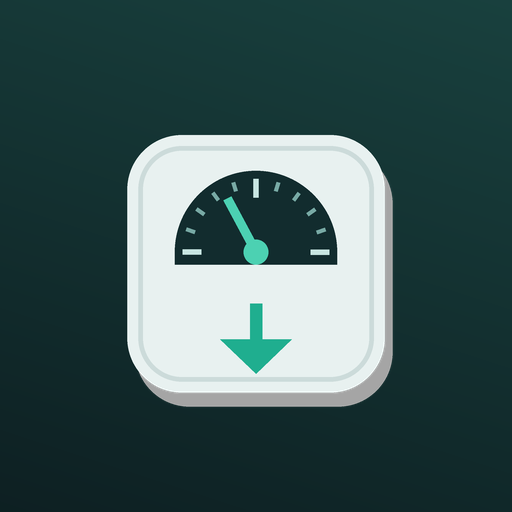
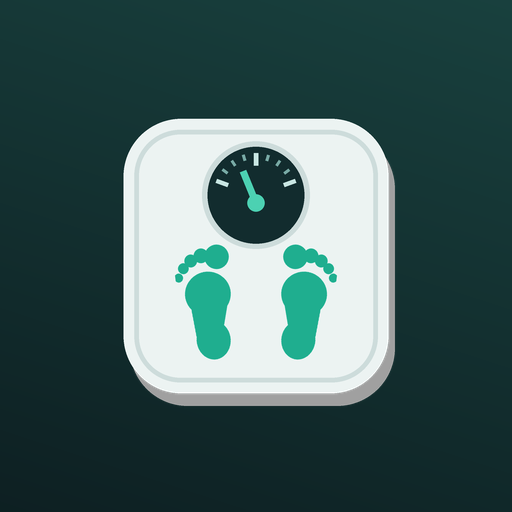
0.1.2: масштаб графіка — колесо миші, перетягування й Shift+колесо для зсуву, подвійний клік скидає; на телефоні — два пальці (розвести — масштаб, вести разом — зсув); нова іконка — підлогові ваги зі слідами ступнів

Changed region(s): [[0.2188, 0.2188, 0.7812, 0.7812], [0.3438, 0.75, 0.6562, 0.7812]]

diff --git a/js/chart.js b/js/chart.js
@@ -20,12 +20,18 @@ function niceStep(span) {
   return STEPS.find((st) => span / st <= 6) ?? 10;
 }
 
+/** Найвужче вікно масштабу, днів. */
+const MIN_SPAN = 6;
+let clipSeq = 0;
+
 /**
  * spec: {
  *   series: [{ key, label, kind: 'line' | 'dots', cls, points: [{ date, v, ring }], endLabel }],
  *   extra: [числа, що мають влізти в шкалу], hlines: [{ v, label, cls }],
  *   legend: [{ label, cls, kind }], height, digits, unit,
  *   selected, onPick(date), tip(date) → [рядки],
+ *   zoom — масштаб колесом миші й зсув перетягуванням; view: [з, по] — початкове вікно (дати),
+ *   onView(з, по) — вікно змінилося,
  * }
  */
 export function lineChart(spec) {
@@ -33,9 +39,28 @@ export function lineChart(spec) {
     ? h('div', { class: 'chart-legend' }, spec.legend.map((l) => h('span', { class: 'legend-item' },
       h('span', { class: `key ${l.kind} ${l.cls}`, 'aria-hidden': 'true' }), l.label)))
     : null;
-  const plot = h('div', { class: 'chart-plot' });
+  const plot = h('div', { class: `chart-plot ${spec.zoom ? 'zoomable' : ''}` });
   const tip = h('div', { class: 'chart-tip', hidden: true });
   const wrap = h('div', { class: 'chart' }, legend, h('div', { class: 'chart-stage' }, plot, tip));
+
+  // Вікно перегляду — у днях від першої дати всіх даних; дробове, щоб масштаб ішов плавно
+  const allDates = [...new Set(spec.series.flatMap((se) => se.points.map((p) => p.date)))].sort();
+  const D0 = allDates[0];
+  const full = allDates.length ? Math.max(1, daysBetween(D0, allDates.at(-1))) : 1;
+  const minSpan = Math.min(MIN_SPAN, full);
+  const clampView = ([a, b]) => {
+    const span = Math.min(full, Math.max(minSpan, b - a));
+    const from = Math.max(0, Math.min(full - span, a));
+    return [from, from + span];
+  };
+  const initial = spec.view && D0 ? clampView(spec.view.map((d) => daysBetween(D0, d))) : [0, full];
+  let view = initial;
+  let selected = spec.selected ?? null;
+  let cur = null;
+  // svg один на весь час: дотик адресується елементу під пальцем, і якби svg замінювався
+  // при перемальовуванні, наступні touchmove йшли б у від'єднаний вузол і до plot не доходили
+  const svg = s('svg', { class: 'chart-svg', role: 'img' });
+
   let lastWidth = 0;
   const ro = new ResizeObserver(() => {
     const w = Math.round(plot.clientWidth);
@@ -46,16 +71,37 @@ export function lineChart(spec) {
   const gone = new MutationObserver(() => { if (!wrap.isConnected) { ro.disconnect(); gone.disconnect(); } });
   requestAnimationFrame(() => { if (wrap.isConnected) gone.observe(document.body, { childList: true, subtree: true }); });
 
+  function setView(next) {
+    const [a, b] = clampView(next);
+    if (Math.abs(a - view[0]) < 1e-6 && Math.abs(b - view[1]) < 1e-6) return;
+    view = [a, b];
+    if (lastWidth) draw(lastWidth);
+    spec.onView?.(addDays(D0, Math.ceil(a - 1e-6)), addDays(D0, Math.floor(b + 1e-6)));
+  }
+
   function draw(width) {
     const height = spec.height ?? 220;
     const pad = { l: 38, r: 46, t: 10, b: 24 };
-    const all = spec.series.flatMap((se) => se.points);
-    if (!all.length) { plot.replaceChildren(); return; }
-    const dates = [...new Set(all.map((p) => p.date))].sort();
-    const d0 = dates[0];
-    const d1 = dates.at(-1);
-    const spanDays = Math.max(1, daysBetween(d0, d1));
-    const vals = [...all.map((p) => p.v), ...(spec.extra ?? [])].filter(Number.isFinite);
+    if (!allDates.length) { plot.replaceChildren(); cur = null; return; }
+    const [v0, v1] = view;
+    const spanDays = v1 - v0;
+    const off = (date) => daysBetween(D0, date);
+    const inView = (p) => off(p.date) >= v0 - 1e-6 && off(p.date) <= v1 + 1e-6;
+    // Лінії тягнемо до сусідньої точки за краєм — обрізає clipPath; крапки — лише видимі
+    const shown = spec.series.map((se) => {
+      const pts = se.points.filter((p) => Number.isFinite(p.v));
+      if (se.kind !== 'line') return pts.filter(inView);
+      const first = pts.findIndex((p) => off(p.date) >= v0 - 1e-6);
+      const last = pts.findLastIndex((p) => off(p.date) <= v1 + 1e-6);
+      if (first < 0 || last < 0) return [];
+      return pts.slice(Math.max(0, first - 1), last + 2);
+    });
+    const visible = shown.flatMap((pts) => pts.filter(inView));
+    const dates = [...new Set(visible.map((p) => p.date))].sort();
+    const d0 = addDays(D0, Math.ceil(v0 - 1e-6));
+    const d1 = addDays(D0, Math.floor(v1 + 1e-6));
+    const vals = [...(visible.length ? visible : shown.flat()).map((p) => p.v), ...(spec.extra ?? [])].filter(Number.isFinite);
+    if (!vals.length) { plot.replaceChildren(); cur = null; return; }
     let lo = Math.min(...vals);
     let hi = Math.max(...vals);
     const step = niceStep(Math.max(0.5, hi - lo));
@@ -63,11 +109,14 @@ export function lineChart(spec) {
     hi = Math.ceil((hi + step * 0.3) / step) * step;
     const iw = width - pad.l - pad.r;
     const ih = height - pad.t - pad.b;
-    const x = (date) => pad.l + (daysBetween(d0, date) / spanDays) * iw;
+    const x = (date) => pad.l + ((off(date) - v0) / spanDays) * iw;
     const y = (v) => pad.t + (1 - (v - lo) / (hi - lo)) * ih;
     const digits = step < 1 ? 1 : 0;
 
-    const svg = s('svg', { viewBox: `0 0 ${width} ${height}`, width, height, class: 'chart-svg', role: 'img' });
+    svg.setAttribute('viewBox', `0 0 ${width} ${height}`);
+    svg.setAttribute('width', width);
+    svg.setAttribute('height', height);
+    svg.replaceChildren();
     const grid = s('g', { class: 'grid' });
     for (let v = lo; v <= hi + 1e-9; v += step) {
       const yy = Math.round(y(v)) + 0.5;
@@ -78,7 +127,7 @@ export function lineChart(spec) {
     const xStep = X_STEPS.find((st) => spanDays / st <= 5);
     const ticks = [];
     if (xStep) {
-      for (let d = 0; d <= spanDays; d += xStep) ticks.push(addDays(d0, d));
+      for (let d = Math.ceil(v0 - 1e-6); d <= v1 + 1e-6; d += xStep) ticks.push(addDays(D0, d));
     } else {
       const months = Math.max(1, Math.ceil(spanDays / 30 / 5));
       let m = `${d0.slice(0, 7)}-01`;
@@ -102,10 +151,14 @@ export function lineChart(spec) {
         s('text', { x: width - pad.r + 4, y: yy + 4, class: 'tick' }, line.label)));
     }
 
-    const marks = s('g', {});
-    for (const se of spec.series) {
-      const pts = se.points.filter((p) => Number.isFinite(p.v));
-      if (!pts.length) continue;
+    const clipId = `chart-clip-${++clipSeq}`;
+    svg.append(s('defs', {}, s('clipPath', { id: clipId },
+      s('rect', { x: pad.l - 6, y: 0, width: iw + 12, height: height - pad.b + 6 }))));
+    const marks = s('g', { 'clip-path': `url(#${clipId})` });
+    const labels = s('g', {});
+    spec.series.forEach((se, i) => {
+      const pts = shown[i];
+      if (!pts.length) return;
       if (se.kind === 'line') {
         const d = pts.map((p, i) => `${i ? 'L' : 'M'}${x(p.date).toFixed(1)},${y(p.v).toFixed(1)}`).join('');
         marks.append(s('path', { d, class: `series-line ${se.cls}` }));
@@ -118,12 +171,13 @@ export function lineChart(spec) {
         }
         marks.append(g);
       }
-      if (se.endLabel) {
-        const p = pts.at(-1);
-        marks.append(s('text', { x: x(p.date) + 6, y: y(p.v) + 4, class: 'end-label' }, fmt.fix(p.v, spec.digits ?? 1)));
+      // Підпис на кінці — лише коли кінець лінії у вікні
+      const p = pts.at(-1);
+      if (se.endLabel && inView(p)) {
+        labels.append(s('text', { x: x(p.date) + 6, y: y(p.v) + 4, class: 'end-label' }, fmt.fix(p.v, spec.digits ?? 1)));
       }
-    }
-    svg.append(marks);
+    });
+    svg.append(marks, labels);
 
     const cursor = s('g', { class: 'cursor', visibility: 'hidden' }, s('line', { y1: pad.t, y2: height - pad.b }));
     const hits = s('g', {});
@@ -131,7 +185,7 @@ export function lineChart(spec) {
     svg.append(cursor);
 
     const place = (date, sticky) => {
-      if (!date) { cursor.setAttribute('visibility', 'hidden'); tip.hidden = true; return; }
+      if (!date || !dates.includes(date)) { cursor.setAttribute('visibility', 'hidden'); tip.hidden = true; return; }
       const cx = x(date);
       cursor.setAttribute('visibility', 'visible');
       cursor.querySelector('line').setAttribute('x1', cx);
@@ -147,31 +201,104 @@ export function lineChart(spec) {
       tip.style.left = left ? '' : `${Math.min(cx + 10, width - 150)}px`;
       tip.style.right = left ? `${Math.max(0, width - cx + 10)}px` : '';
     };
-    const nearest = (clientX) => {
+    /** Частка ширини області графіка під курсором, 0…1. */
+    const frac = (clientX) => {
       const rect = svg.getBoundingClientRect();
       const px = ((clientX - rect.left) / rect.width) * width;
-      const day = Math.round(((px - pad.l) / iw) * spanDays);
-      const target = addDays(d0, Math.max(0, Math.min(spanDays, day)));
-      return dates.reduce((best, d) => (Math.abs(daysBetween(d, target)) < Math.abs(daysBetween(best, target)) ? d : best), dates[0]);
+      return Math.max(0, Math.min(1, (px - pad.l) / iw));
     };
-    let selected = spec.selected && dates.includes(spec.selected) ? spec.selected : null;
-    const overlay = s('rect', { x: pad.l - 8, y: 0, width: iw + 16, height, class: 'overlay' });
-    let down = null;
-    overlay.addEventListener('pointermove', (e) => {
-      if (e.pointerType === 'mouse' || down) place(nearest(e.clientX));
-    });
-    overlay.addEventListener('pointerdown', (e) => { down = e.pointerId; place(nearest(e.clientX)); });
-    overlay.addEventListener('pointerup', (e) => {
-      down = null;
-      selected = nearest(e.clientX);
-      place(selected, true);
-      spec.onPick?.(selected);
-    });
-    overlay.addEventListener('pointercancel', () => { down = null; place(selected, true); });
-    overlay.addEventListener('pointerleave', (e) => { if (e.pointerType === 'mouse') place(selected, true); });
-    svg.append(overlay);
-    plot.replaceChildren(svg);
+    const nearest = (clientX) => {
+      if (!dates.length) return null;
+      const target = v0 + frac(clientX) * spanDays;
+      return dates.reduce((best, d) => (Math.abs(off(d) - target) < Math.abs(off(best) - target) ? d : best), dates[0]);
+    };
+    if (svg.parentNode !== plot) plot.replaceChildren(svg);
+    cur = { place, nearest, frac, daysPerPx: spanDays / iw / (svg.getBoundingClientRect().width / width || 1) };
     place(selected, true);
+  }
+
+  // Події — на постійному контейнері: svg перемальовується під час масштабу й зсуву
+  let down = null;
+  let pinch = null;
+  plot.addEventListener('pointerdown', (e) => {
+    if (!cur || !e.isPrimary || e.button > 0 || pinch) return;
+    const mouse = e.pointerType === 'mouse';
+    down = { x: e.clientX, view, moved: false, mouse };
+    if (mouse && spec.zoom) plot.setPointerCapture(e.pointerId);
+    cur.place(cur.nearest(e.clientX));
+  });
+  plot.addEventListener('pointermove', (e) => {
+    if (!cur) return;
+    const zoomed = view[1] - view[0] < full - 1e-6;
+    if (down?.mouse && spec.zoom && zoomed && (down.moved || Math.abs(e.clientX - down.x) > 4)) {
+      // Перетягування мишею — зсув вікна, графік їде за курсором
+      down.moved = true;
+      plot.classList.add('panning');
+      const days = (e.clientX - down.x) * cur.daysPerPx;
+      setView([down.view[0] - days, down.view[1] - days]);
+      return;
+    }
+    if (e.pointerType === 'mouse' || down) cur.place(cur.nearest(e.clientX));
+  });
+  plot.addEventListener('pointerup', (e) => {
+    const was = down;
+    down = null;
+    plot.classList.remove('panning');
+    if (!cur || !was) return;
+    if (was.moved) { cur.place(selected, true); return; }
+    selected = cur.nearest(e.clientX);
+    cur.place(selected, true);
+    if (selected) spec.onPick?.(selected);
+  });
+  plot.addEventListener('pointercancel', () => { down = null; plot.classList.remove('panning'); cur?.place(selected, true); });
+  plot.addEventListener('pointerleave', (e) => { if (e.pointerType === 'mouse' && !down) cur?.place(selected, true); });
+
+  if (spec.zoom) {
+    plot.addEventListener('wheel', (e) => {
+      if (!cur) return;
+      const [a, b] = view;
+      const span = b - a;
+      const unit = e.deltaMode === 1 ? 33 : e.deltaMode === 2 ? 400 : 1;
+      const dx = (e.deltaX || (e.shiftKey ? e.deltaY : 0)) * unit;
+      if (dx) {
+        // Горизонтальне колесо / тачпад / Shift+колесо — зсув
+        if ((dx < 0 && a <= 0) || (dx > 0 && b >= full)) return;
+        e.preventDefault();
+        setView([a + dx * cur.daysPerPx, b + dx * cur.daysPerPx]);
+        return;
+      }
+      const dy = Math.max(-300, Math.min(300, e.deltaY * unit));
+      // Далі віддаляти нікуди — колесо гортає сторінку, як звичайно
+      if (dy > 0 && span >= full - 1e-6) return;
+      e.preventDefault();
+      const f = cur.frac(e.clientX);
+      const at = a + f * span;
+      const next = span * 1.0015 ** dy;
+      setView([at - f * next, at - f * next + next]);
+    }, { passive: false });
+    plot.addEventListener('dblclick', () => setView(initial));
+
+    // Два пальці: розведення — масштаб, рух разом — зсув. День під серединою між пальцями лишається під нею.
+    const touchMid = (e) => (e.touches[0].clientX + e.touches[1].clientX) / 2;
+    const touchDist = (e) => Math.abs(e.touches[0].clientX - e.touches[1].clientX);
+    plot.addEventListener('touchstart', (e) => {
+      if (e.touches.length !== 2 || !cur) return;
+      e.preventDefault();
+      const f = cur.frac(touchMid(e));
+      pinch = { dist: Math.max(20, touchDist(e)), view, at: view[0] + f * (view[1] - view[0]) };
+      down = null;
+      cur.place(null);
+    }, { passive: false });
+    plot.addEventListener('touchmove', (e) => {
+      if (!pinch || e.touches.length !== 2 || !cur) return;
+      e.preventDefault();
+      const next = (pinch.view[1] - pinch.view[0]) * (pinch.dist / Math.max(20, touchDist(e)));
+      const f = cur.frac(touchMid(e));
+      setView([pinch.at - f * next, pinch.at - f * next + next]);
+    }, { passive: false });
+    plot.addEventListener('touchend', (e) => {
+      if (pinch && e.touches.length === 0) { pinch = null; cur?.place(selected, true); }
+    });
   }
   return wrap;
 }

diff --git a/js/app.js b/js/app.js
@@ -309,6 +309,8 @@ function renderHome() {
 const PERIODS = [['30', 'Месяц'], ['90', '3 месяца'], ['all', 'Всё']];
 let period = PERIODS.some(([k]) => k === recall('weight-log:period')) ? recall('weight-log:period') : '90';
 let picked = null;
+/** Вікно, набране колесом миші; кнопка періоду його скидає. */
+let chartView = null;
 
 function dayTip(date) {
   const r = rows.find((x) => x.date === date);
@@ -343,21 +345,26 @@ function dayDetails(date) {
 
 function renderChart() {
   if (!rows.length) return empty('chart', t('Пока нечего показать'), t('Запишите вес — и здесь появится график.'));
-  const seg = segmented(PERIODS.map(([k, l]) => [k, t(l)]), period, (v) => { period = v; remember('weight-log:period', v); render(); });
+  const seg = segmented(PERIODS.map(([k, l]) => [k, t(l)]), period, (v) => { period = v; chartView = null; remember('weight-log:period', v); render(); });
   const lastDate = rows.at(-1).date;
   const from = period === 'all' ? rows[0].date : M.addDays(lastDate, -(Number(period) - 1));
   const vis = rows.filter((r) => r.date >= from);
-  $('subtitle').textContent = `${fmt.date(vis[0].date)} — ${fmt.date(lastDate)}`;
+  const showRange = (a, b) => { $('subtitle').textContent = `${fmt.date(a)} — ${fmt.date(b)}`; };
+  const view = chartView ?? [vis[0].date, lastDate];
+  showRange(...view);
   const g = sum.goal;
-  const plan = vis.map((r) => ({ date: r.date, v: M.planAt(g, r.date) })).filter((p) => p.v !== null);
+  const plan = rows.map((r) => ({ date: r.date, v: M.planAt(g, r.date) })).filter((p) => p.v !== null);
   const marks = M.checkpoints(rows, goal, sum).map((c) => ({ v: c.kg, label: c.isTarget ? t('цель') : fmt.int(c.kg), cls: c.isTarget ? 'target' : 'cp' }));
   const details = h('div', {}, dayDetails(picked));
   const chart = lineChart({
     series: [
       { key: 'plan', kind: 'line', cls: 's-plan', points: plan },
-      { key: 'kg', kind: 'dots', cls: 's-kg', points: vis.map((r) => ({ date: r.date, v: r.kg, ring: Boolean(r.note) })) },
-      { key: 'avg', kind: 'line', cls: 's-avg', points: vis.filter((r) => r.avg !== null).map((r) => ({ date: r.date, v: r.avg })), endLabel: true },
+      { key: 'kg', kind: 'dots', cls: 's-kg', points: rows.map((r) => ({ date: r.date, v: r.kg, ring: Boolean(r.note) })) },
+      { key: 'avg', kind: 'line', cls: 's-avg', points: rows.filter((r) => r.avg !== null).map((r) => ({ date: r.date, v: r.avg })), endLabel: true },
     ],
+    zoom: true,
+    view,
+    onView: (a, b) => { chartView = [a, b]; showRange(a, b); },
     hlines: marks,
     legend: [
       { label: t('Вес'), kind: 'dot', cls: 's-kg' },
@@ -374,7 +381,9 @@ function renderChart() {
     ? h('p', { class: 'muted small chart-note' }, t('Цель {kg} — ниже шкалы графика: до неё ещё {d}.', { kg: kg(sum.target), d: kg(Math.max(0, sum.toGo ?? 0), 2) }))
     : null;
   return h('div', {}, seg,
-    h('section', { class: 'panel chart-panel' }, chart, below),
+    h('section', { class: 'panel chart-panel' }, chart, below,
+      h('p', { class: 'muted small chart-note chart-hint mouse' }, t('Колесо мыши — масштаб, перетаскивание — сдвиг, двойной клик — сбросить.')),
+      h('p', { class: 'muted small chart-note chart-hint touch' }, t('Два пальца: развести — масштаб, вести вместе — сдвиг. Кнопка периода — сбросить.'))),
     box(withIcon('calendar', t('Выбранный день')), details),
     waistBox());
 }

diff --git a/css/app.css b/css/app.css
@@ -260,7 +260,9 @@ button, input, select, textarea { font: inherit; color: inherit; }
 .chart-svg .cursor .hit.s-plan { fill: var(--c-plan); }
 .chart-svg .cursor .hit.s-kg { fill: var(--text); }
 .chart-svg .cursor .hit.s-waist { fill: var(--c-waist); }
-.chart-svg .overlay { fill: transparent; cursor: crosshair; }
+/* Події ловить сам svg (він не перестворюється), вміст перемальовується і їх не перехоплює */
+.chart-svg { cursor: crosshair; }
+.chart-svg > * { pointer-events: none; }
 .chart-tip {
   position: absolute;
   top: 4px;
@@ -278,6 +280,13 @@ button, input, select, textarea { font: inherit; color: inherit; }
 .chart-tip[hidden] { display: none; }
 .tip-head { font-weight: 700; margin-bottom: 2px; }
 .chart-note { margin: 6px 6px 2px; }
+.chart-plot.panning, .chart-plot.panning .chart-svg { cursor: grabbing; }
+/* Підказка про колесо — де є миша, про пальці — на сенсорному екрані */
+.chart-hint.touch { display: none; }
+@media (hover: none) {
+  .chart-hint.mouse { display: none; }
+  .chart-hint.touch { display: block; }
+}
 .waist-head { display: flex; flex-wrap: wrap; align-items: baseline; gap: 4px 12px; margin: 4px 0 8px; }
 .waist-head b { font-size: 22px; }
 .box .chart { margin: 0 -6px 8px; }

diff --git a/js/i18n.js b/js/i18n.js
@@ -154,6 +154,8 @@ const UK = {
   'Запишите вес — и здесь появится график.': 'Запишіть вагу — і тут з’явиться графік.',
   'с заметкой': 'з нотаткою',
   'Цель {kg} — ниже шкалы графика: до неё ещё {d}.': 'Ціль {kg} — нижче шкали графіка: до неї ще {d}.',
+  'Колесо мыши — масштаб, перетаскивание — сдвиг, двойной клик — сбросить.': 'Колесо миші — масштаб, перетягування — зсув, подвійний клік — скинути.',
+  'Два пальца: развести — масштаб, вести вместе — сдвиг. Кнопка периода — сбросить.': 'Два пальці: розвести — масштаб, вести разом — зсув. Кнопка періоду — скинути.',
   'Выбранный день': 'Вибраний день',
   'Талия': 'Талія',
   'Талия уходит вместе с весом — замер раз в неделю, утром, по пупку.': 'Талія йде разом з вагою — замір раз на тиждень, уранці, по пупку.',

diff --git a/version.js b/version.js
@@ -1,2 +1,2 @@
 // Підняти при кожному релізі: від цього залежить оновлення кешу service worker.
-self.APP_VERSION = '0.1.1';
+self.APP_VERSION = '0.1.2';
